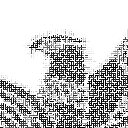
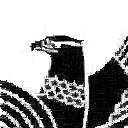
Aufff

diff --git a/2/genetic.py b/2/genetic.py
@@ -14,14 +14,13 @@ class Ind:
 
 
 def rclr():
-    # return [np.random.randint(0, 255) for _ in range(3)]
-    # return (0, 0, 0) if np.random.rand() < .5 else (255, 255, 255)
     c = np.random.randint(0, 256)
     return (c, c, c)
+    # return [np.random.randint(0, 255) for _ in range(3)]
 
 
 def rrot():
-    return (0 if np.random.rand() < .5 else 1) * np.pi / 2
+    return 0 if np.random.rand() < .5 else .5 * np.pi
 
 
 def line(x, y, rot, rad):
@@ -30,21 +29,18 @@ def line(x, y, rot, rad):
 
 
 def mut(ind):
-    x, y = C * np.random.randint(0, G, 2)
-    u, v = x + C, y + C
+    x = np.random.randint(0, W)
+    y = np.random.randint(0, H)
 
-    ind.fit -= fit(ind.img, x, y, u, v)
-
+    l = np.random.randint(L[0], L[1])
     r = rrot()
-    # l = np.random.randint(1, C)
-    l = C * 2
 
-    p1, p2 = line(x + Ch, y + Ch, r, l + 1)
-    cv2.line(ind.img, p1, p2, (255, 255, 255), 1)
-    p1, p2 = line(x + Ch, y + Ch, r, l)
+    ind.fit -= fit(ind.img, x - l, y - l, x + l, y + l)
+
+    p1, p2 = line(x, y, r, l)
     cv2.line(ind.img, p1, p2, rclr(), 1)
 
-    ind.fit += fit(ind.img, x, y, u, v)
+    ind.fit += fit(ind.img, x - l, y-l, x + l, y + l)
 
     return ind
 
@@ -53,21 +49,22 @@ def fit(img, x, y, u, v):
     return np.sum(np.absolute(np.subtract(img[y:v, x:u], src[y:v, x:u])))
 
 
-src = cv2.imread("imam.png")
+src = cv2.imread(r"C:\Users\alkaitagi\Projects\INNO-S20-IAI\2\small.png")
 
+# radius range
+L = (2, 8)
 # image size
-S = src.shape[0]
-# cell size
-C = 2
-Ch = C // 2
+W, H = src.shape[:2]
+# gap
+G = 2
 # grid size
-G = S // C
+R, C = W // G, H // G
 # population
 N = 50
 
 res = Ind()
-res.img = 255 * np.ones((S, S, 3))
-res.fit = fit(res.img, 0, 0, S, S)
+res.img = 255 * np.ones((W, H, 3))
+res.fit = fit(res.img, 0, 0, W, H)
 
 
 gnr = 0
